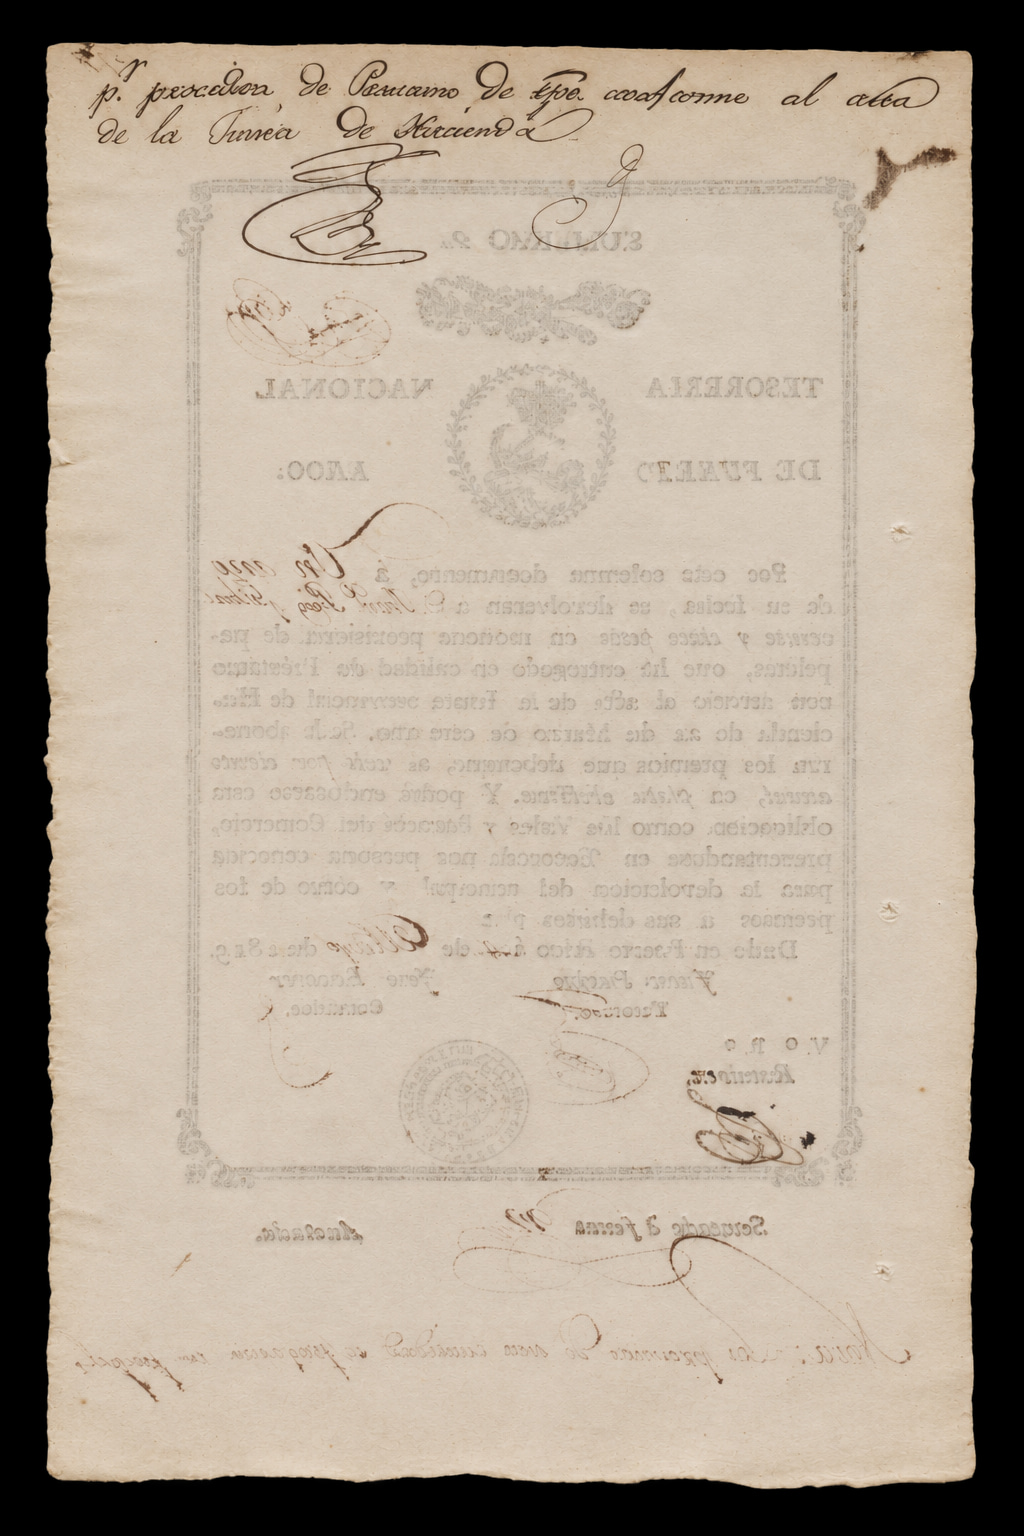
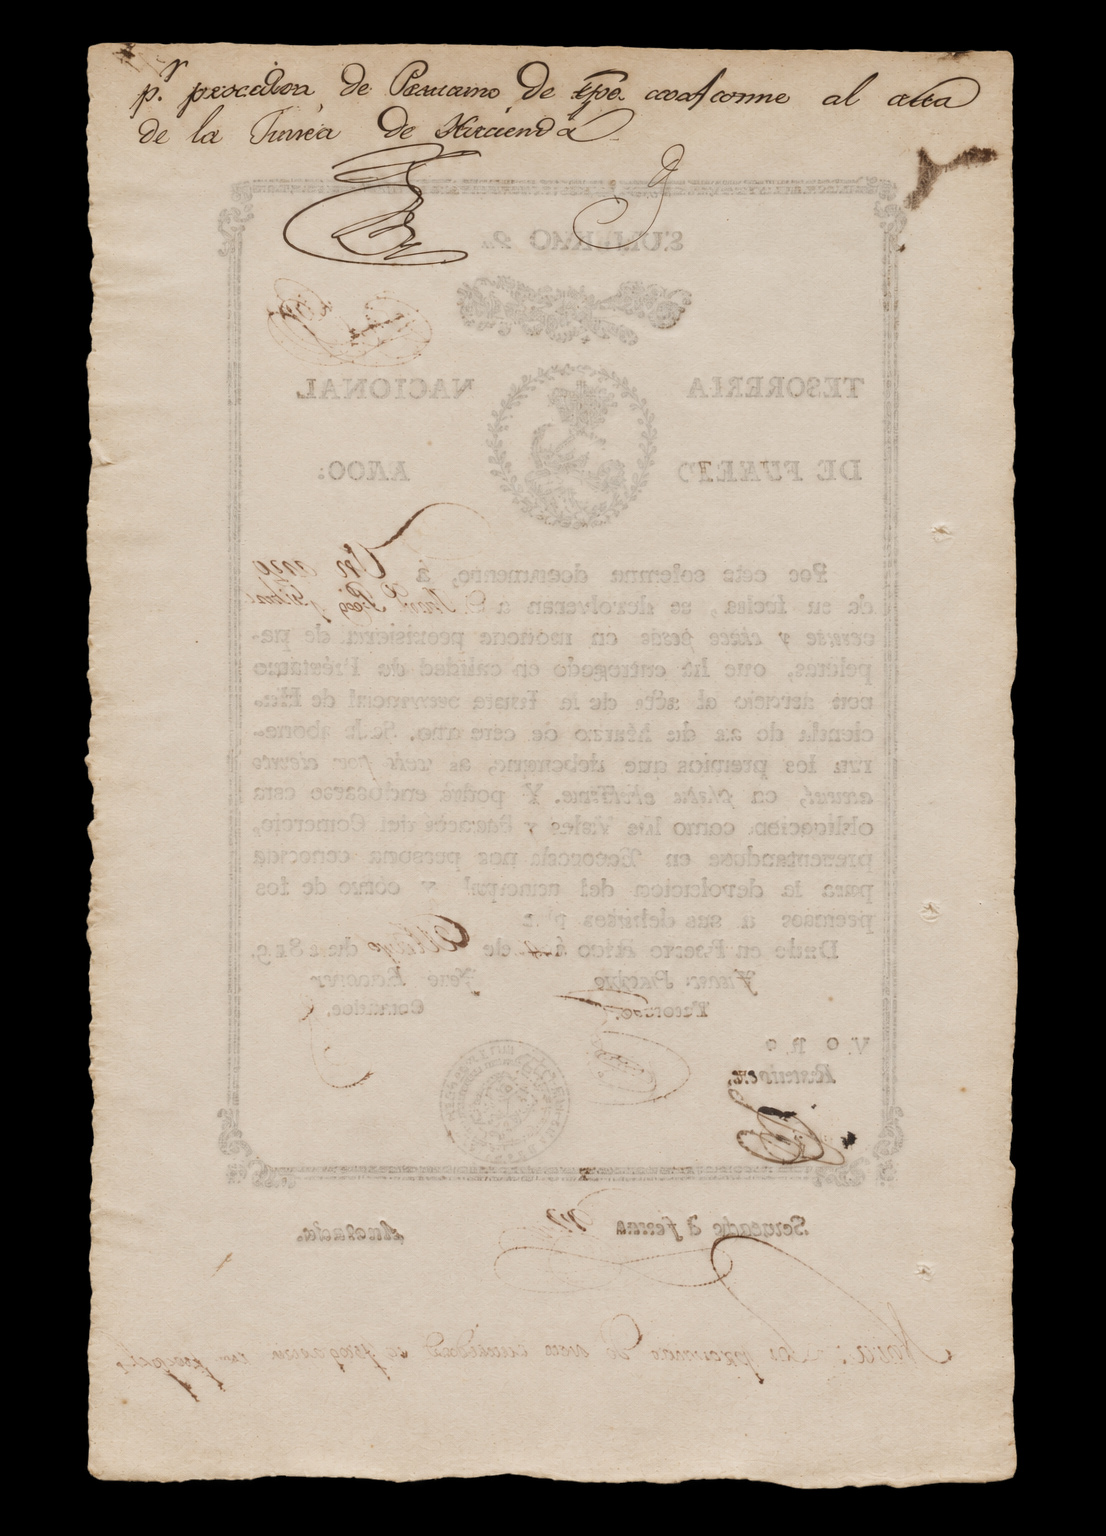
Match the 1813 Treasury scans to one canvas.
Both sides are 1106 by 1536 so the note page shows them at the same size. The black photographic margin comes off the front; the sheet itself is not cropped.

diff --git a/src/data/puerto-rico.ts b/src/data/puerto-rico.ts
@@ -183,9 +183,9 @@ export const puertoRicoNotes: PuertoRicoNote[] = [
         '/images/catalog/puerto-rico/puerto-rico-tesoreria-nacional-obligacion-25-pesos-1813-24-front.jpg',
       back:
         '/images/catalog/puerto-rico/puerto-rico-tesoreria-nacional-obligacion-25-pesos-1813-24-back.jpg',
-      frontWidth: 1088,
-      frontHeight: 1445,
-      backWidth: 1024,
+      frontWidth: 1106,
+      frontHeight: 1536,
+      backWidth: 1106,
       backHeight: 1536,
     },
     title: {
